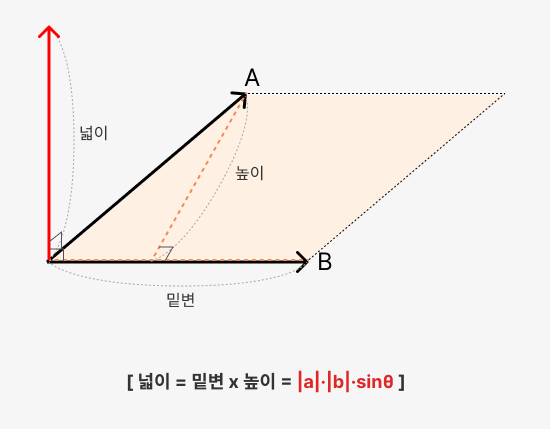
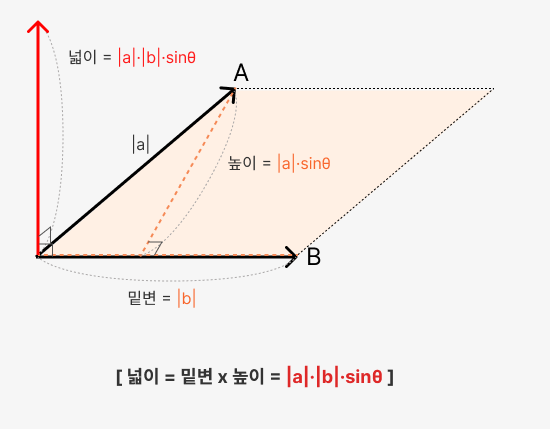
외적 수정 완

diff --git a/Panda-developer/수학/외적.md b/Panda-developer/수학/외적.md
@@ -28,8 +28,11 @@
 
 ### 새로운 벡터의 크기
 새로운 벡터의 크기는 두 벡터가 이루는 평행사변형의 넓이와 같다.
+평행사변형의 넓이를 구하는 공식은 `밑변 x 높이`이다.
 
-![[Group 3.png|외적 크기|450]]
+그래서 외적의 공식 `|a|·|b|·sinθ`가 되는 것이다.
+
+![[Group 3.png|외적 크기|450]] 
 
 ---
 
